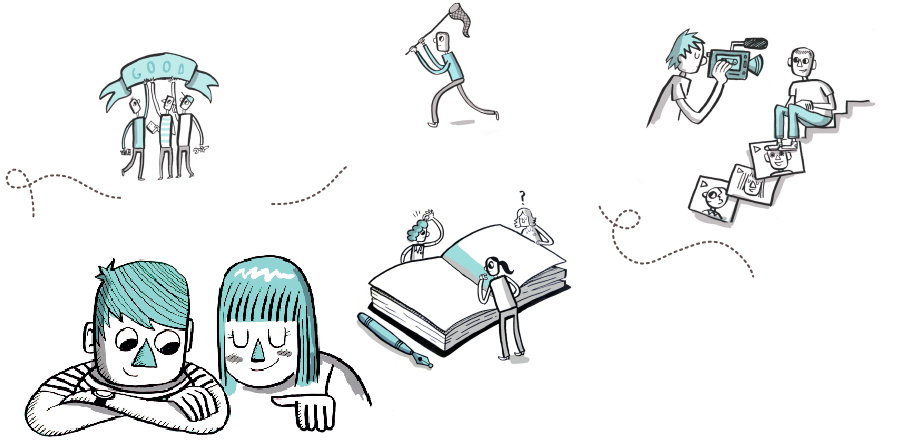
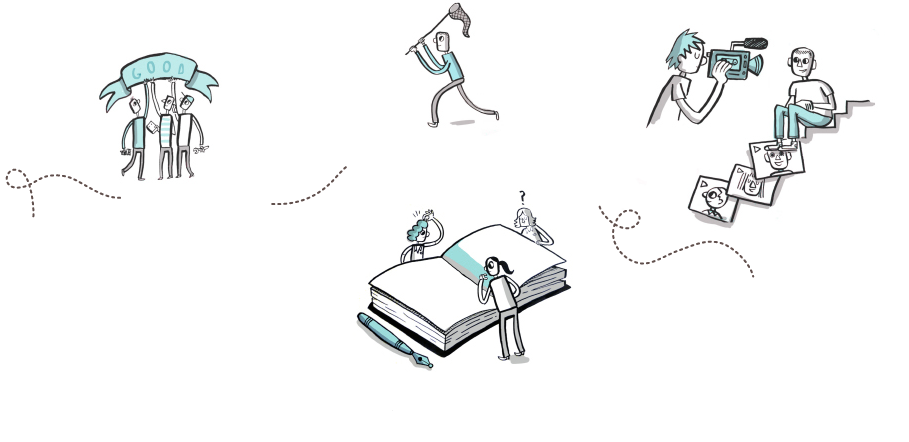
new homepage layout

Changed region(s): [[0.0, 0.5588, 0.4312, 1.0]]

diff --git a/app/controllers/home_controller.rb b/app/controllers/home_controller.rb
@@ -2,21 +2,15 @@ class HomeController < ApplicationController
 
 	def index
 	  
-	  @update = Post.published.order("created_at DESC").first
-	  @challenge = Challenge.activated.find_by_featured(true)
 	  
 	  @member_count = User.count
 	  @venture_count = Venture.count
 	  
-		@social = Social.feature.first
-			
-	  if user_signed_in? && current_user.chapter.present?
-	    @social = Social.where('start_time > ? && chapter_id = ?',Time.now, current_user.chapter.id).order("start_time ASC").first if @social.nil?
-	    @gig = Gig.where('end_time > ? && chapter_id = ?',Time.now, current_user.chapter.id).order("start_time ASC").first
-	  end
-	  
-	  @social = Social.where('start_time > ?',Time.now).order("start_time ASC").first if !user_signed_in? and @social.nil?
-	  @gig = Gig.where('end_time > ?',Time.now).order("start_time ASC").first if !user_signed_in? or @gig.nil?
+	  @update = Post.published.order("created_at DESC").take(6)    
+	  @social = Social.where('start_time > ?',Time.now).order("start_time ASC").take(6)
+	  @gig = Gig.where('end_time > ?',Time.now).order("start_time ASC").take(6)
+    
+    @results = (@gig + @social)
 	
   end
 

diff --git a/app/helpers/application_helper.rb b/app/helpers/application_helper.rb
@@ -4,6 +4,14 @@ module ApplicationHelper
     content.to_s.split("").map{|c| "<span>#{c}</span>" }.join.html_safe
   end
   
+  def is_chapters?
+    params[:action] == 'chapters'
+  end
+  
+  def is_calendar?
+    params[:action] == 'calendar'
+  end
+  
   def is_about?
     params[:action] == 'how' || params[:action] == 'who' || params[:action] == 'funding'
   end
